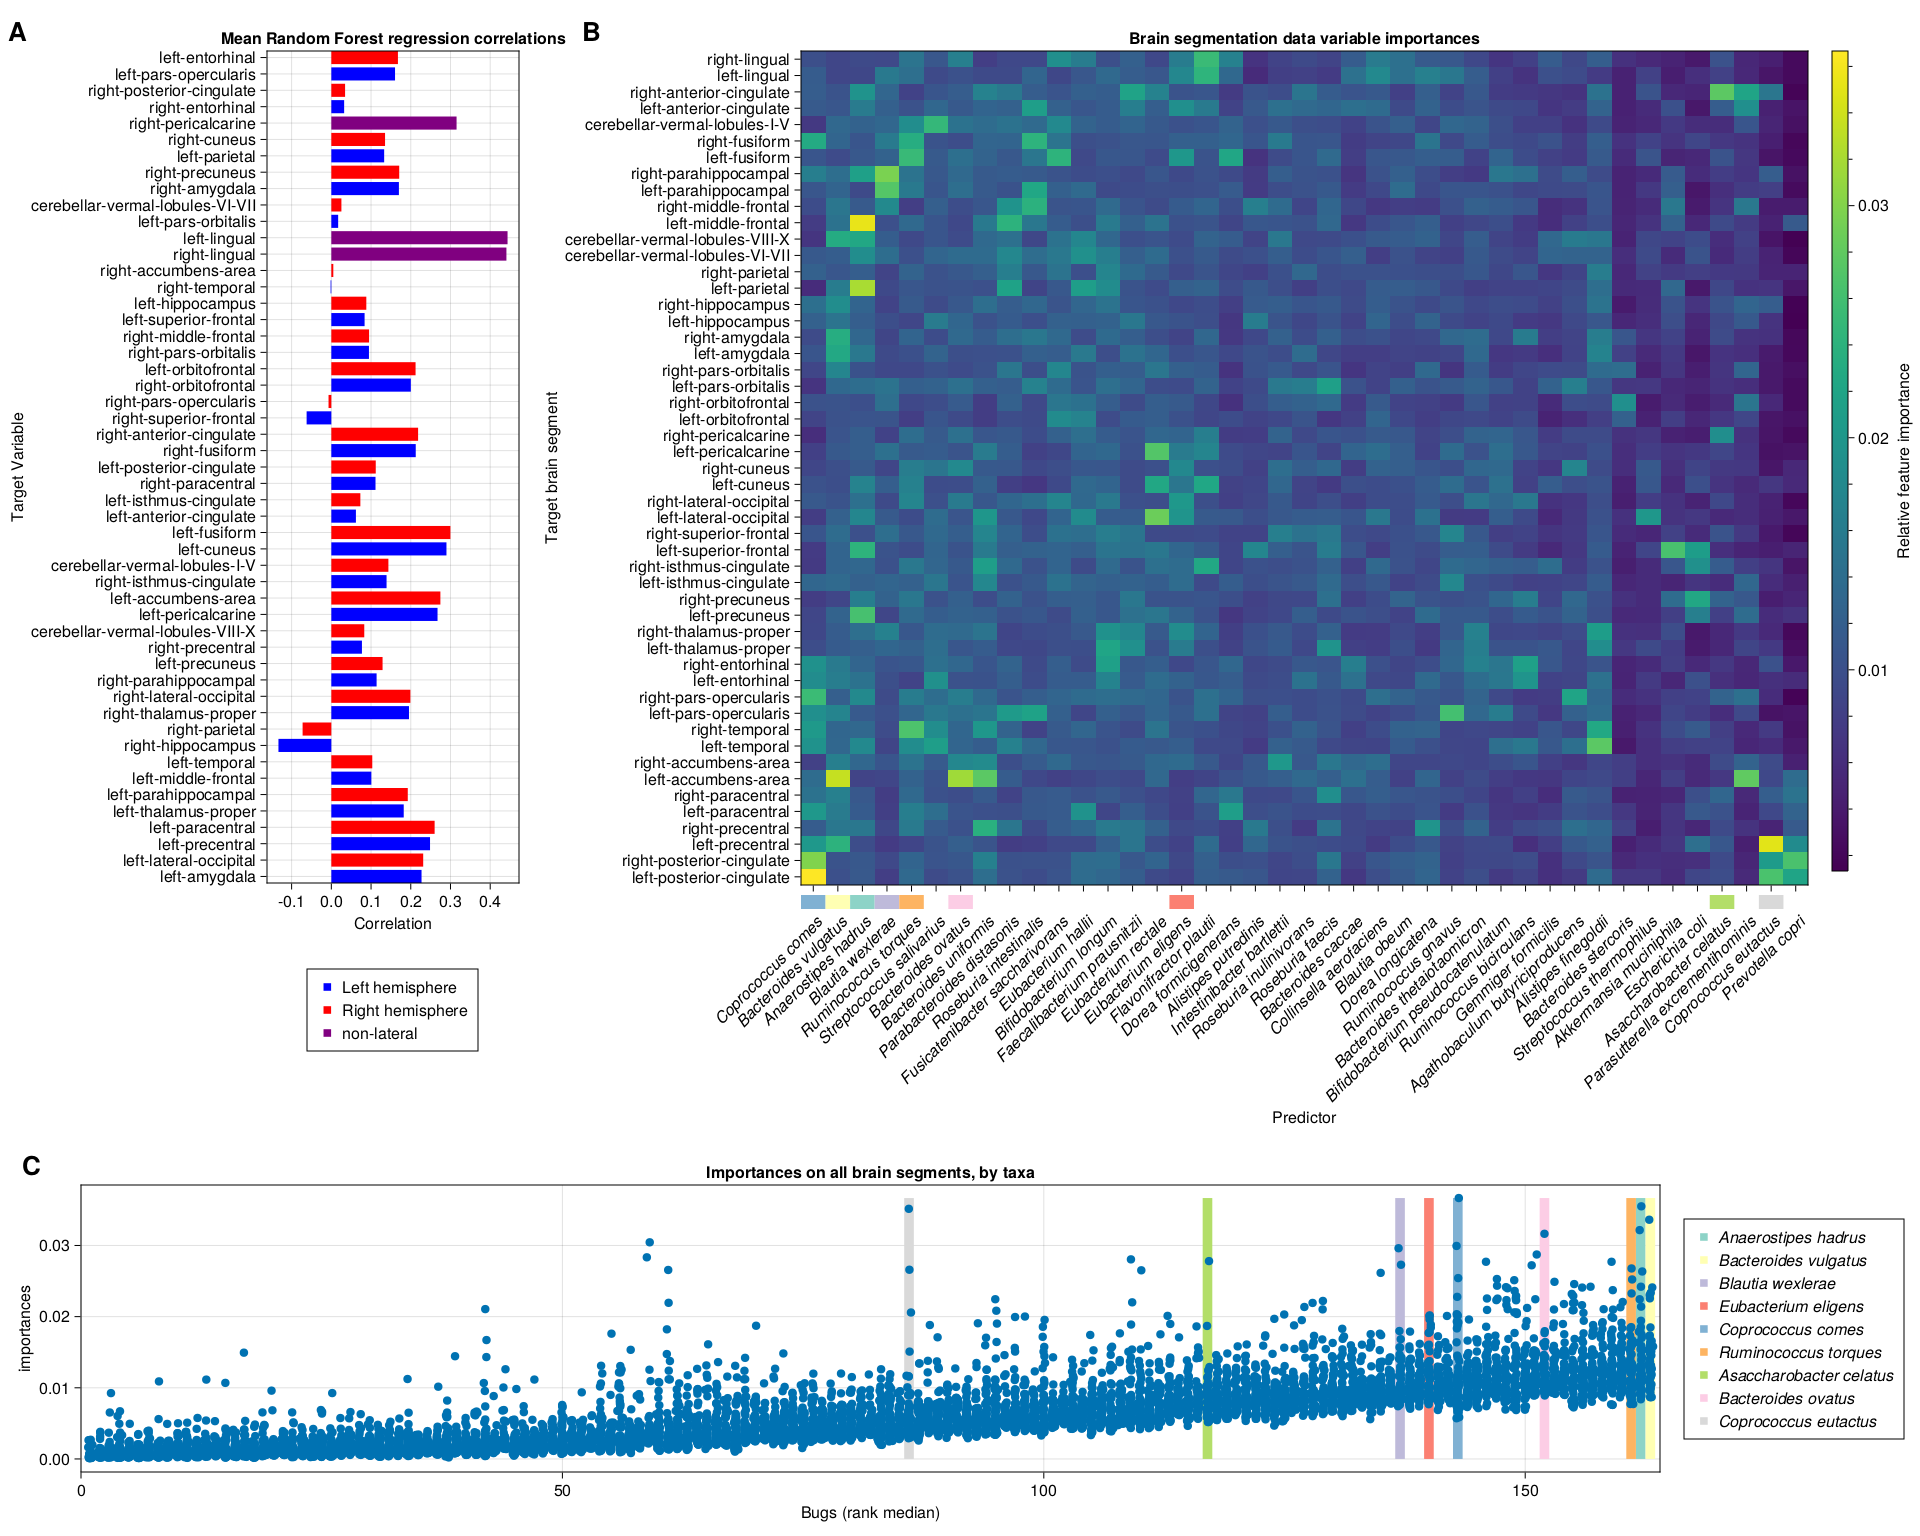
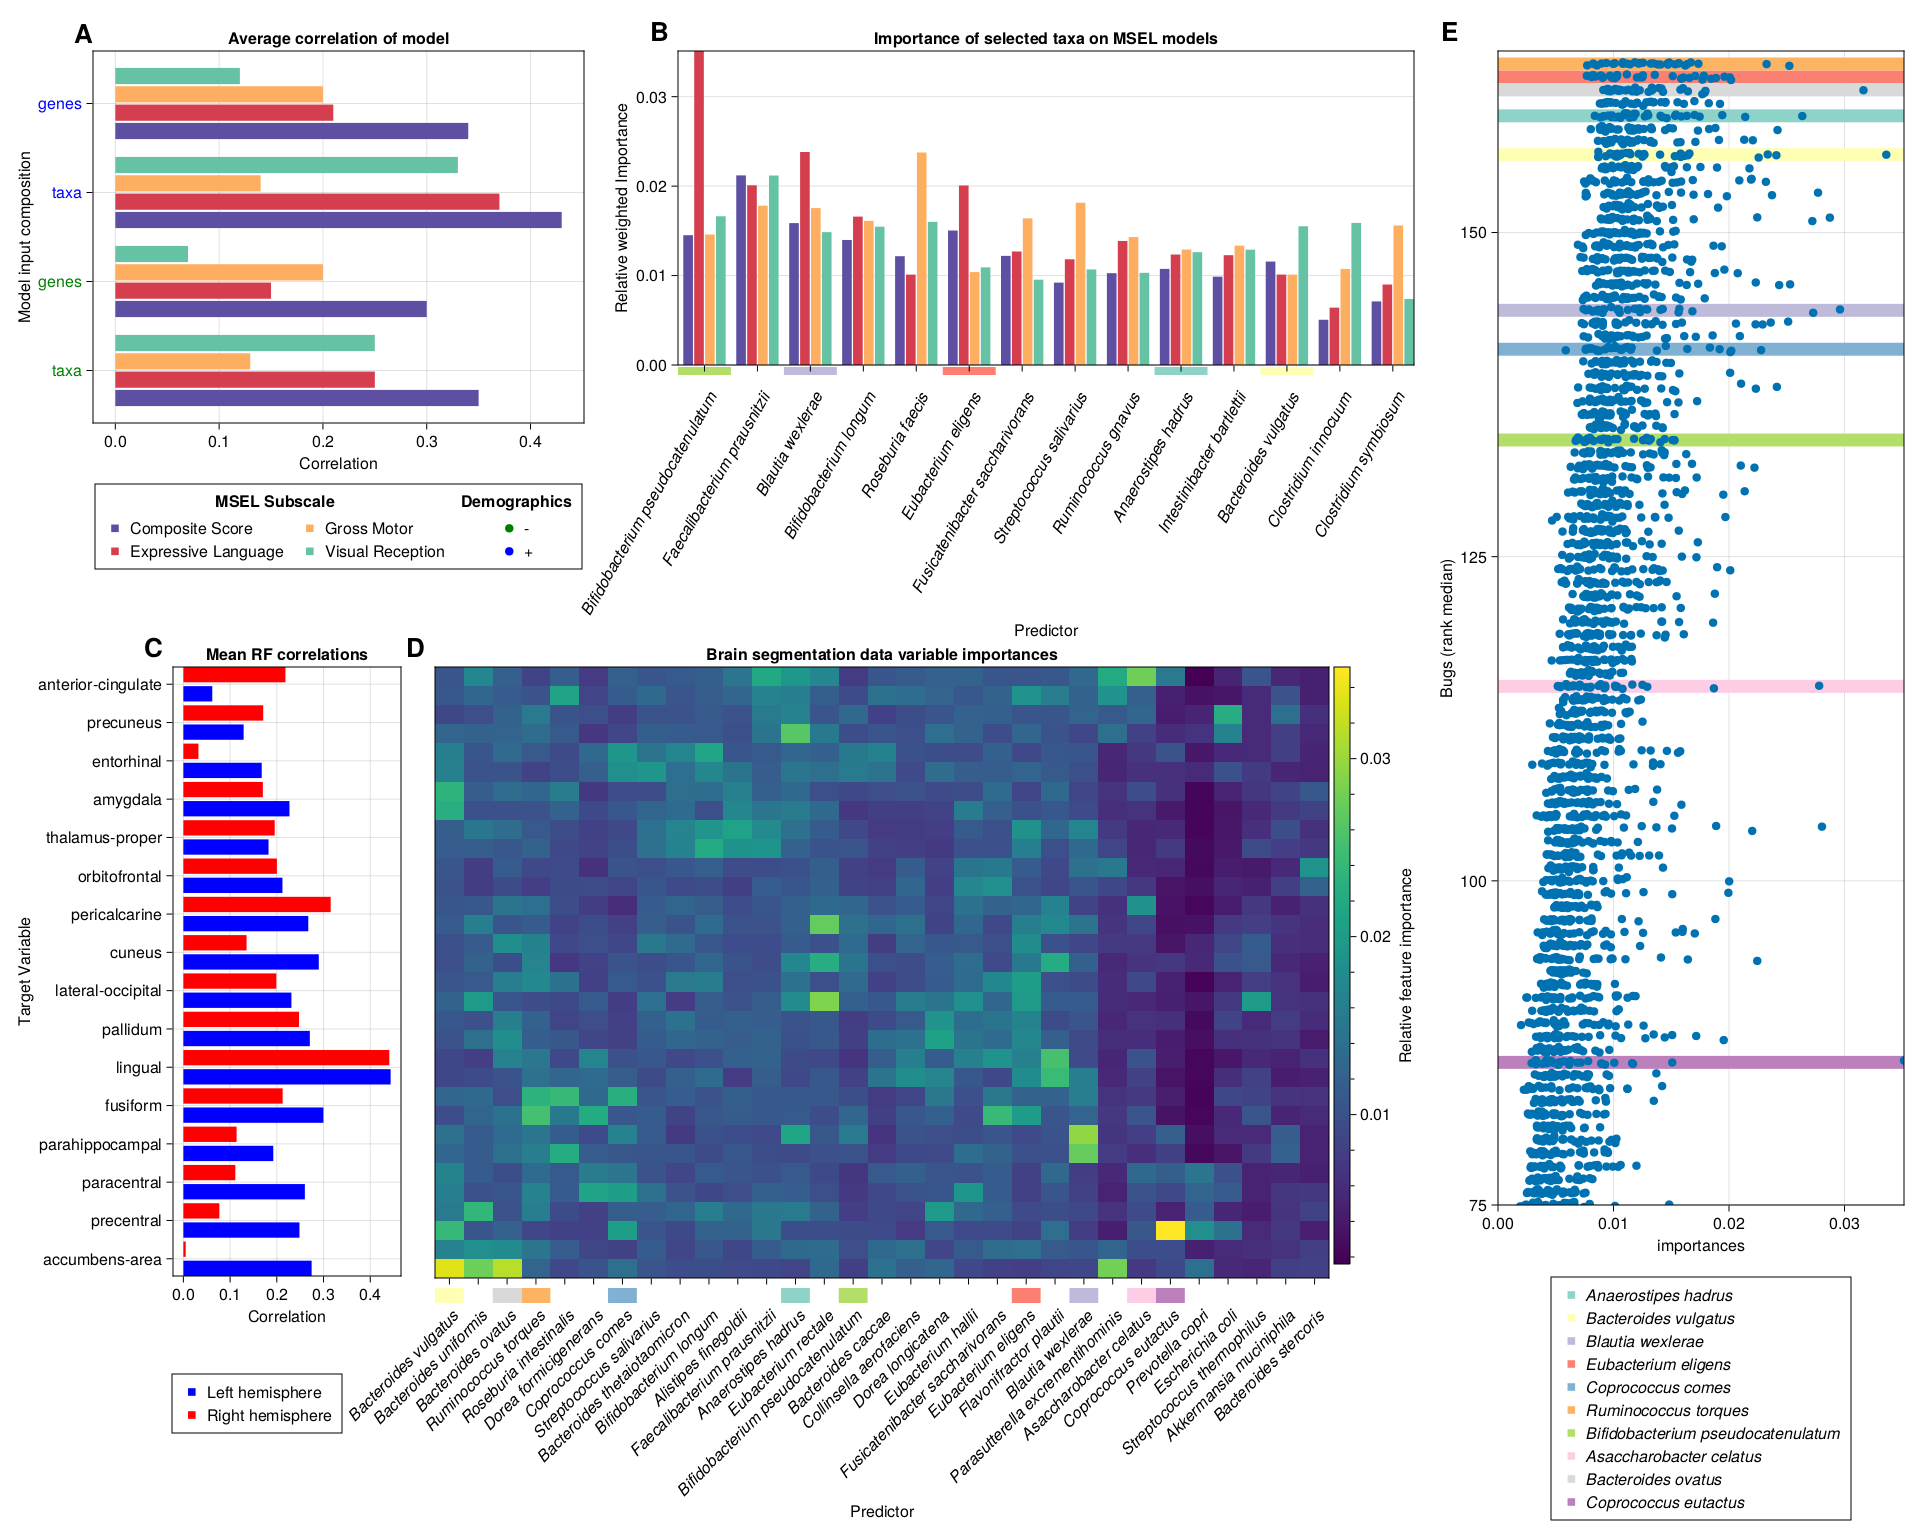
Figure 4 Commit

diff --git a/manuscript/Figure4.md b/manuscript/Figure4.md
@@ -152,6 +152,13 @@ end
 ```
 
 #### Getting the individual and combined importances, finding the bugs to plot on Panel B
+
+There are 178 variables across the entire feature set for all models.
+Considering the average importances, and exclusing age and education, 17 of them are enough to explain 25% of the average importances.
+Hence, 17 seems to be the most plausible and explainable number of bugs to show on Fig 4B.
+However, we want to be able to show not only very important variables, but also those that are differentially important, and those that match important features of the other analyses as well.
+The block of code below was used to explore those possibilities. The final selection was performed by manual curation to fuel discussion.
+
 ```julia
 composite_importances = rename(
     weighted_hpimportances(regression_currentCogScores_18to120mo_demoplustaxa;
@@ -176,30 +183,72 @@ vr_importances = rename(
 
 sidebyside_importances = reduce( (x, y) -> outerjoin(x, y, on = :variable; makeunique = true), [ composite_importances, el_importances, gm_importances, vr_importances ])
 sidebyside_importances.avg = [ mean(skipmissing(collect(rr))) for rr in eachrow(sidebyside_importances[:, 2:end]) ]
+sidebyside_importances.maxacross = [ maximum(skipmissing(collect(rr))) for rr in eachrow(sidebyside_importances[:, 2:end]) ]
+sidebyside_importances.stdev = [ Statistics.std(skipmissing(collect(rr))) for rr in eachrow(sidebyside_importances[:, 2:end]) ]
+
+## Check the most important bugs, in average.
+@show sort(sidebyside_importances, :avg; rev = true)[1:20, :]
+## From this list: "Anaerostipes_hadrus", "Bacteroides_uniformis" "Bacteroides_vulgatus", "Bifidobacterium_longum", "Bifidobacterium_pseudocatenulatum", 
+## "Blautia_wexlerae", "Eubacterium_eligens", "Eubacterium_sp_CAG_38", "Faecalibacterium_prausnitzii", "Flavonifractor_plautii", 
+## "Fusicatenibacter_saccharivorans", "Intestinibacter_bartlettii", "Parasutterella_excrementihominis", "Roseburia_inulinivorans", "Roseburia_faecis",
+## "Ruminococcus_bromii", "Ruminococcus_gnavus", "Streptococcus_salivarius"
+
+## Check the most important bugs, by maximum value across all models
+@show sort(sidebyside_importances, :maxacross; rev = true)[1:20, :]
+## This list adds the interesting information that "Clostridium_innocuum" and "Clostridium_symbiosum" have very high importance for Gross Motor
+## and "Clostridium_innocuum" is very important for VisualReception
+
+## Check the bugs whose importances deviate the most across models
+@show sort(sidebyside_importances, :stdev; rev = true)[1:20, :]
+## Notable (from other models) players from this list are "Veillonella_parvula", "Parabacteroides_merdae", "Veillonella_dispar" "Asaccharobacter_celatus".
+
 important_bugs_composite = sort(dropmissing(sidebyside_importances, :Composite), :Composite; rev = true).variable[1:12]
 important_bugs_ExpressiveLanguage = sort(dropmissing(sidebyside_importances, :ExpressiveLanguage), :ExpressiveLanguage; rev = true).variable[1:12]
 important_bugs_GrossMotor = sort(dropmissing(sidebyside_importances, :GrossMotor), :GrossMotor; rev = true).variable[1:12]
 important_bugs_VisualReception = sort(dropmissing(sidebyside_importances, :VisualReception), :VisualReception; rev = true).variable[1:12]
 
 @show union(important_bugs_composite, important_bugs_ExpressiveLanguage, important_bugs_GrossMotor, important_bugs_VisualReception)
+## The final list from here is: "Bacteroides_uniformis", "Bacteroides_vulgatus", "Bifidobacterium_longum", "Bifidobacterium_pseudocatenulatum", "Blautia_wexlerae",
+## "Clostridium_innocuum", "Clostridium_symbiosum",  "Eubacterium_eligens",  "Eubacterium_sp_CAG_38", "Faecalibacterium_prausnitzii",
+## "Firmicutes_bacterium_CAG_41", "Flavonifractor_plautii", "Fusicatenibacter_saccharivorans", "Intestinibacter_bartlettii", "Parabacteroides_merdae",
+## "Parasutterella_excrementihominis", "Roseburia_faecis", "Roseburia_inulinivorans", "Ruminococcus_gnavus", "Streptococcus_salivarius",
+## "Subdoligranulum_sp", "Veillonella_dispar", "Veillonella_parvula"
 
 panelB_taxa = [
-    "Blautia_wexlerae",
-    "Eubacterium_eligens",
-    "Faecalibacterium_prausnitzii",
     "Bifidobacterium_pseudocatenulatum",
+    "Faecalibacterium_prausnitzii",
+    "Blautia_wexlerae",
     "Bifidobacterium_longum",
-    "Ruminococcus_gnavus",
-    "Roseburia_inulinivorans",
-    "Flavonifractor_plautii",
     "Roseburia_faecis",
-    "Streptococcus_salivarius",
+    "Eubacterium_eligens",
     "Fusicatenibacter_saccharivorans",
-    "Clostridium_symbiosum",
-    "Subdoligranulum_sp",
-    "Clostridium_innocuum",
+    "Streptococcus_salivarius",
+    "Ruminococcus_gnavus",
+    "Anaerostipes_hadrus",
+    "Intestinibacter_bartlettii",
     "Bacteroides_vulgatus",
+    "Clostridium_innocuum",
+    "Clostridium_symbiosum"
 ]
+
+# Previously...
+# panelB_taxa = [
+#     "Blautia_wexlerae",
+#     "Eubacterium_eligens",
+#     "Faecalibacterium_prausnitzii",
+#     "Bifidobacterium_pseudocatenulatum",
+#     "Bifidobacterium_longum",
+#     "Ruminococcus_gnavus",
+#     "Roseburia_inulinivorans",
+#     "Flavonifractor_plautii",
+#     "Roseburia_faecis",
+#     "Streptococcus_salivarius",
+#     "Fusicatenibacter_saccharivorans",
+#     "Clostridium_symbiosum",
+#     "Subdoligranulum_sp",
+#     "Clostridium_innocuum",
+#     "Bacteroides_vulgatus",
+# ]
 
 panelB_taxa_idxer = Dict( [ panelB_taxa[i] => i for i in eachindex(panelB_taxa) ] )
 ```
@@ -346,6 +395,7 @@ barplot!(axA,
     direction = :x
 )
 ```
+
 ```julia
 highlight_bugs = [
     "Anaerostipes_hadrus",
@@ -370,13 +420,12 @@ hlbugs_color = Dict(b=> c for (c,b) in zip(ColorSchemes.Set3_12, highlight_bugs)
 end
 ```
 
-
 #### Plotting Panel B
 ```julia
 axB = Axis(
     AB_Subfig[1, 2];
     ylabel = "Relative weighted Importance",
-    xticks = (collect(eachindex(panelB_taxa)), replace.(panelB_taxa, "_"=>" ")),
+    xticks = (collect(eachindex(panelB_taxa)), replace.(panelB_taxa, "_"=>"\n")),
     xticklabelfont="TeX Gyre Heros Makie Italic",
     xticklabelsize=16,
     xticklabelrotation= pi/4,
@@ -393,8 +442,9 @@ axBticks = let
         xticks = (collect(1:length(bugs)),
                 format_species_labels(bugs)),
         xticklabelsize=16,
-        xticklabelrotation= pi/4,
+        xticklabelrotation= pi/3,
         xticklabelfont="TeX Gyre Heros Makie Italic",
+        xticklabelpad = 20.0,
         alignmode=Outside()
     )
 end
@@ -412,7 +462,7 @@ barplot!(axB,
     color = panelB_plot_df.color
     )
 
-Legend(AB_Subfig[2,1],
+ableg = Legend(AB_Subfig[2,1],
     [
         [   MarkerElement(; marker=:rect, color=cm[1]),
             MarkerElement(; marker=:rect, color=cm[2]),
@@ -474,7 +524,7 @@ barplot!(
     direction=:x
 )
 
-Legend(CD_Subfig[2,1],
+cdleg = Legend(CD_Subfig[2,1],
     [MarkerElement(; marker=:rect, color=c) for c in ("blue", "red")],
     ["Left hemisphere", "Right hemisphere"];
 )
@@ -561,8 +611,8 @@ Legend(E_Subfig[2,1], [MarkerElement(; marker=:rect, color = hlbugs_color[bug]) 
 ### Final labeling and layout resizing
 
 ```julia
-Label(A_Subfig[1, 1, TopLeft()], "A", fontsize = 26,font = :bold, halign = :right)
-Label(B_Subfig[1, 1, TopLeft()], "B", fontsize = 26,font = :bold, padding = (0, 10, 5, 0), halign = :right)
+Label(AB_Subfig[1, 1, TopLeft()], "A", fontsize = 26,font = :bold, halign = :right)
+Label(AB_Subfig[1, 2, TopLeft()], "B", fontsize = 26,font = :bold, padding = (0, 10, 5, 0), halign = :right)
 Label(CD_Subfig[1, 1, TopLeft()], "C", fontsize = 26,font = :bold, padding = (0, 10, 5, 0), halign = :right)
 Label(CD_Subfig[1, 2, TopLeft()], "D", fontsize = 26,font = :bold, padding = (0, 10, 5, 0), halign = :right)
 Label(E_Subfig[1, 1, TopLeft()], "E", fontsize = 26,font = :bold, padding = (0, 40, 5, 0), halign = :right)
@@ -570,13 +620,18 @@ Label(E_Subfig[1, 1, TopLeft()], "E", fontsize = 26,font = :bold, padding = (0, 
 colsize!(figure.layout, 2, Relative(1/4))
 rowsize!(figure.layout, 2, Relative(0.60))
 colsize!(AB_Subfig, 1, Relative(0.4))
-rowsize!(CD_Subfig, 2, Relative(0.4))
+rowsize!(AB_Subfig, 2, Relative(0.4))
 colsize!(CD_Subfig, 1, Relative(0.2))
 rowsize!(CD_Subfig, 2, Relative(0.28))
-axA.alignmode=Mixed(; bottom=-60)
-axB.alignmode=Mixed(; bottom=-20)
+axA.alignmode=Mixed(; bottom=-100)
+axB.alignmode=Mixed(; bottom=00)
+axBticks.alignmode=Mixed(;bottom = -30, top=-20)
 axC.alignmode=Mixed(; bottom=-60)
 axD.alignmode=Mixed(; bottom=-20)
+ableg.alignmode = Mixed(;top = +25, bottom = -25)
+# ableg.alignmode = Outside()
+cdleg.alignmode = Mixed(;left = -30, right = +30)
+colgap!(AB_Subfig, Fixed(30))
 colgap!(CD_Subfig, Fixed(5))
 figure
 ```
